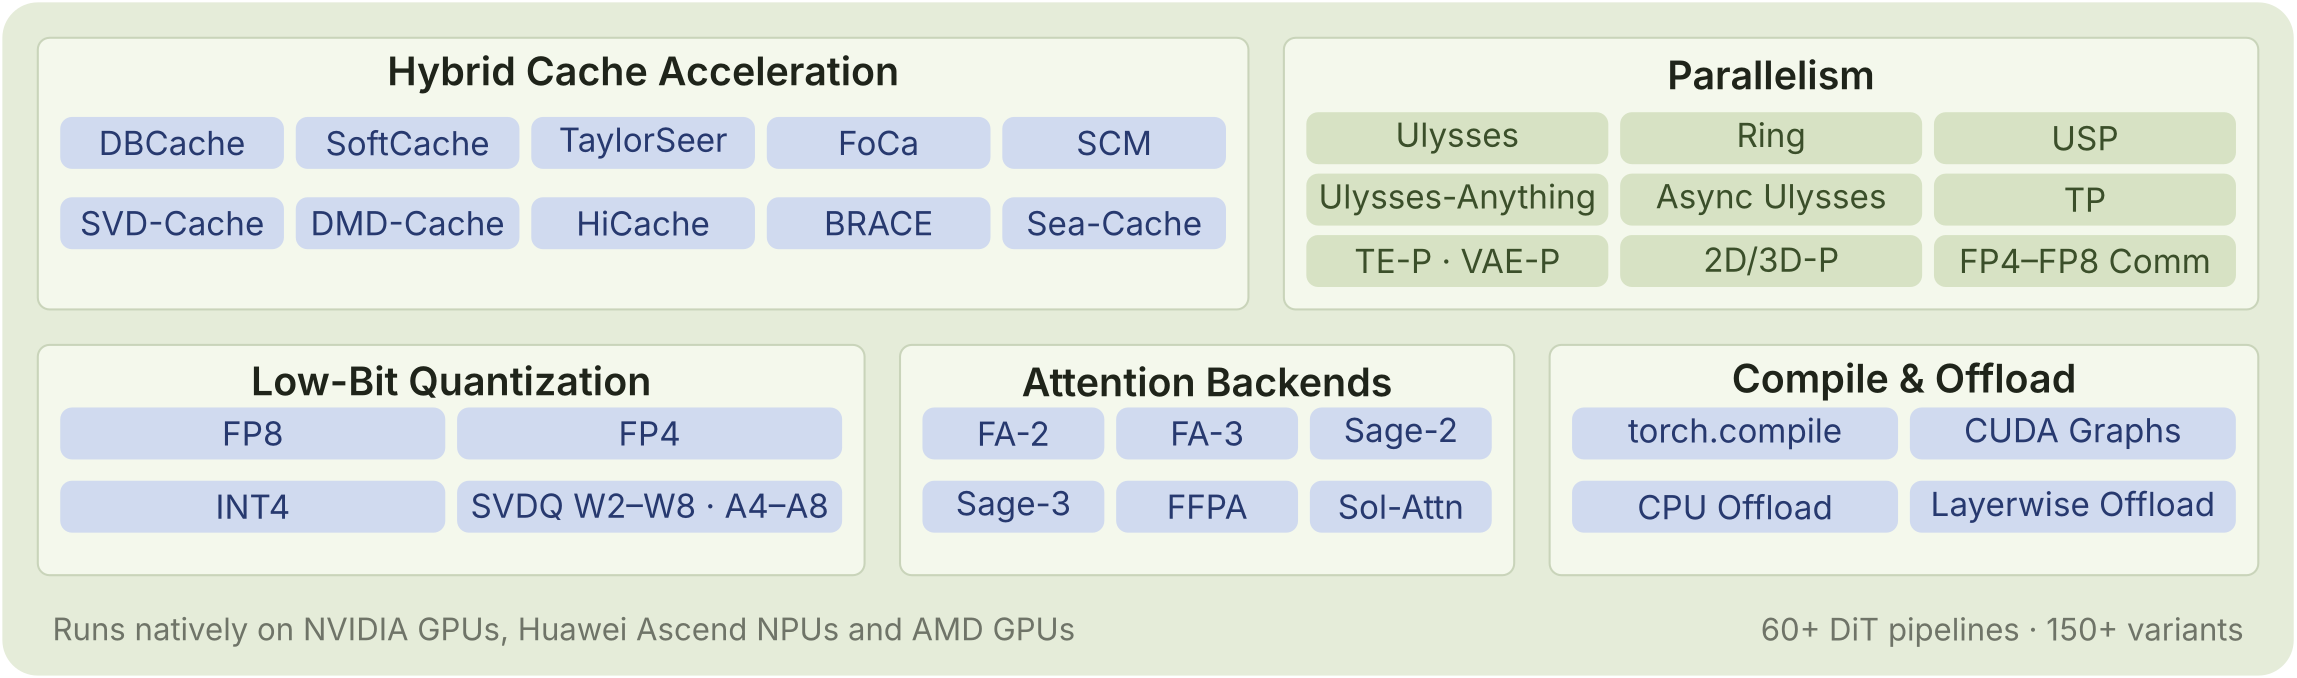
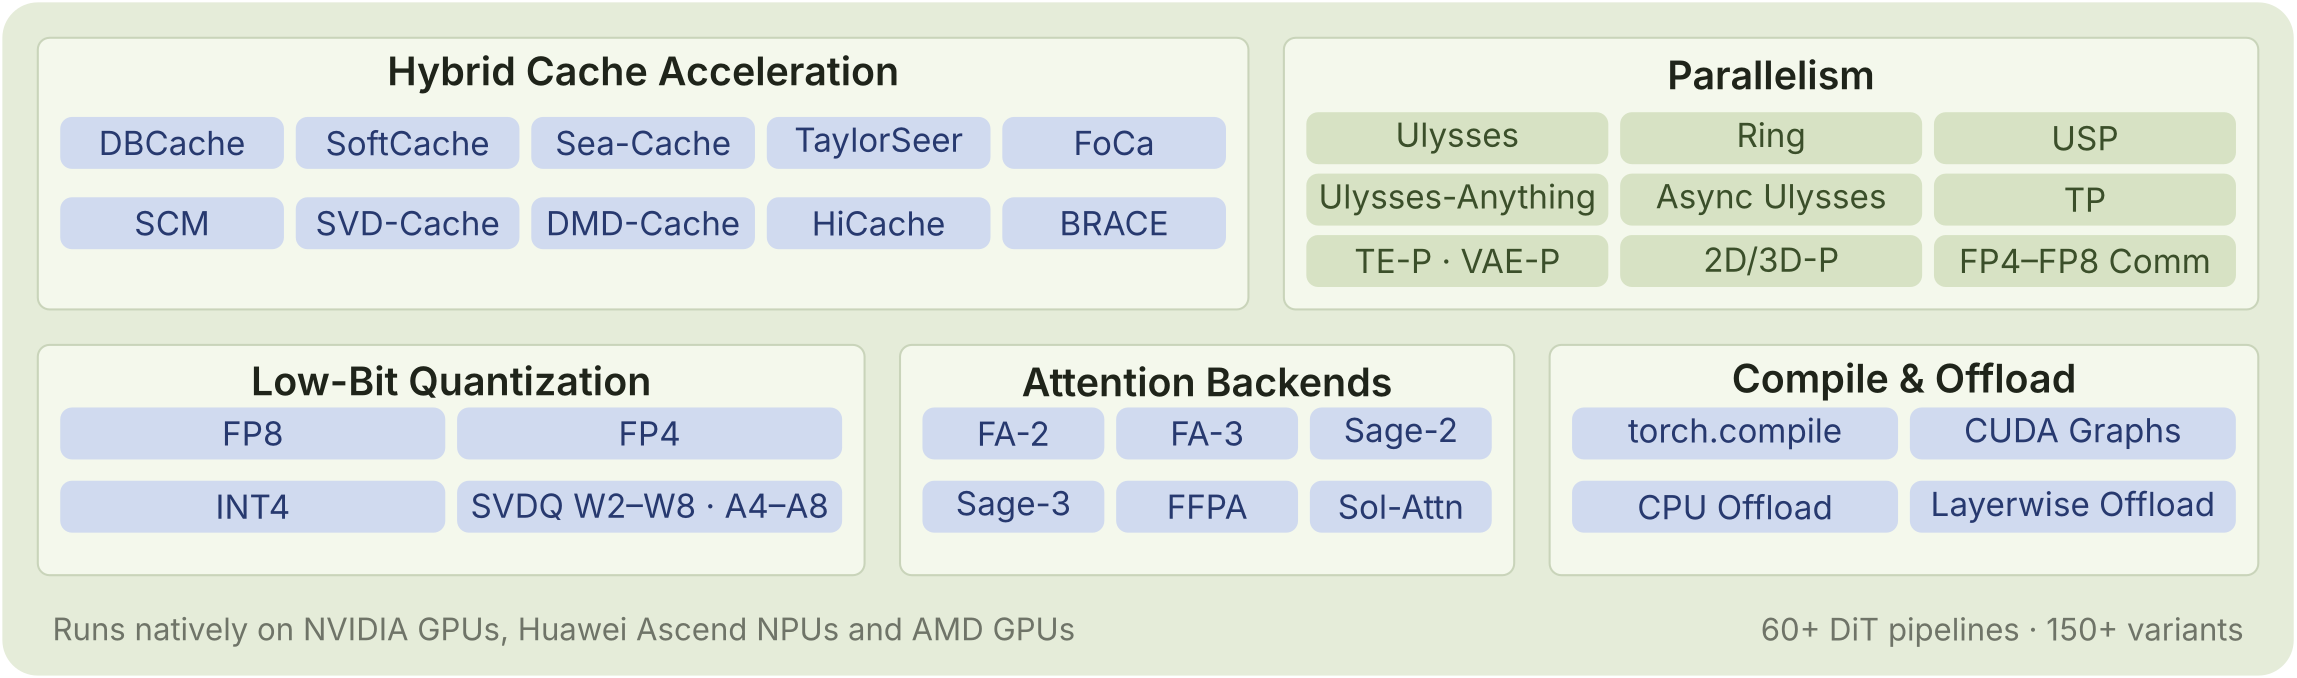
docs: group probe-based caches together in the architecture figure

Changed region(s): [[0.0309, 0.3097, 0.5255, 0.3717], [0.2473, 0.1858, 0.4327, 0.2478], [0.4636, 0.1858, 0.4946, 0.2478]]

diff --git a/docs/assets/tex/arch_v3.tex b/docs/assets/tex/arch_v3.tex
@@ -48,8 +48,8 @@
 
   \panel{0.30}{3.10}{10.55}{5.40}
   \ptitle{5.425}{5.09}{Hybrid Cache Acceleration}
-  \pillrow{4.51}{0.44}{1.994}{pillblue}{bluetext}{DBCache, SoftCache, TaylorSeer, FoCa, SCM}
-  \pillrow{3.83}{0.44}{1.994}{pillblue}{bluetext}{SVD-Cache, DMD-Cache, HiCache, BRACE, Sea-Cache}
+  \pillrow{4.51}{0.44}{1.994}{pillblue}{bluetext}{DBCache, SoftCache, Sea-Cache, TaylorSeer, FoCa}
+  \pillrow{3.83}{0.44}{1.994}{pillblue}{bluetext}{SCM, SVD-Cache, DMD-Cache, HiCache, BRACE}
 
   \panel{10.85}{3.10}{19.10}{5.40}
   \ptitle{14.975}{5.09}{Parallelism}
